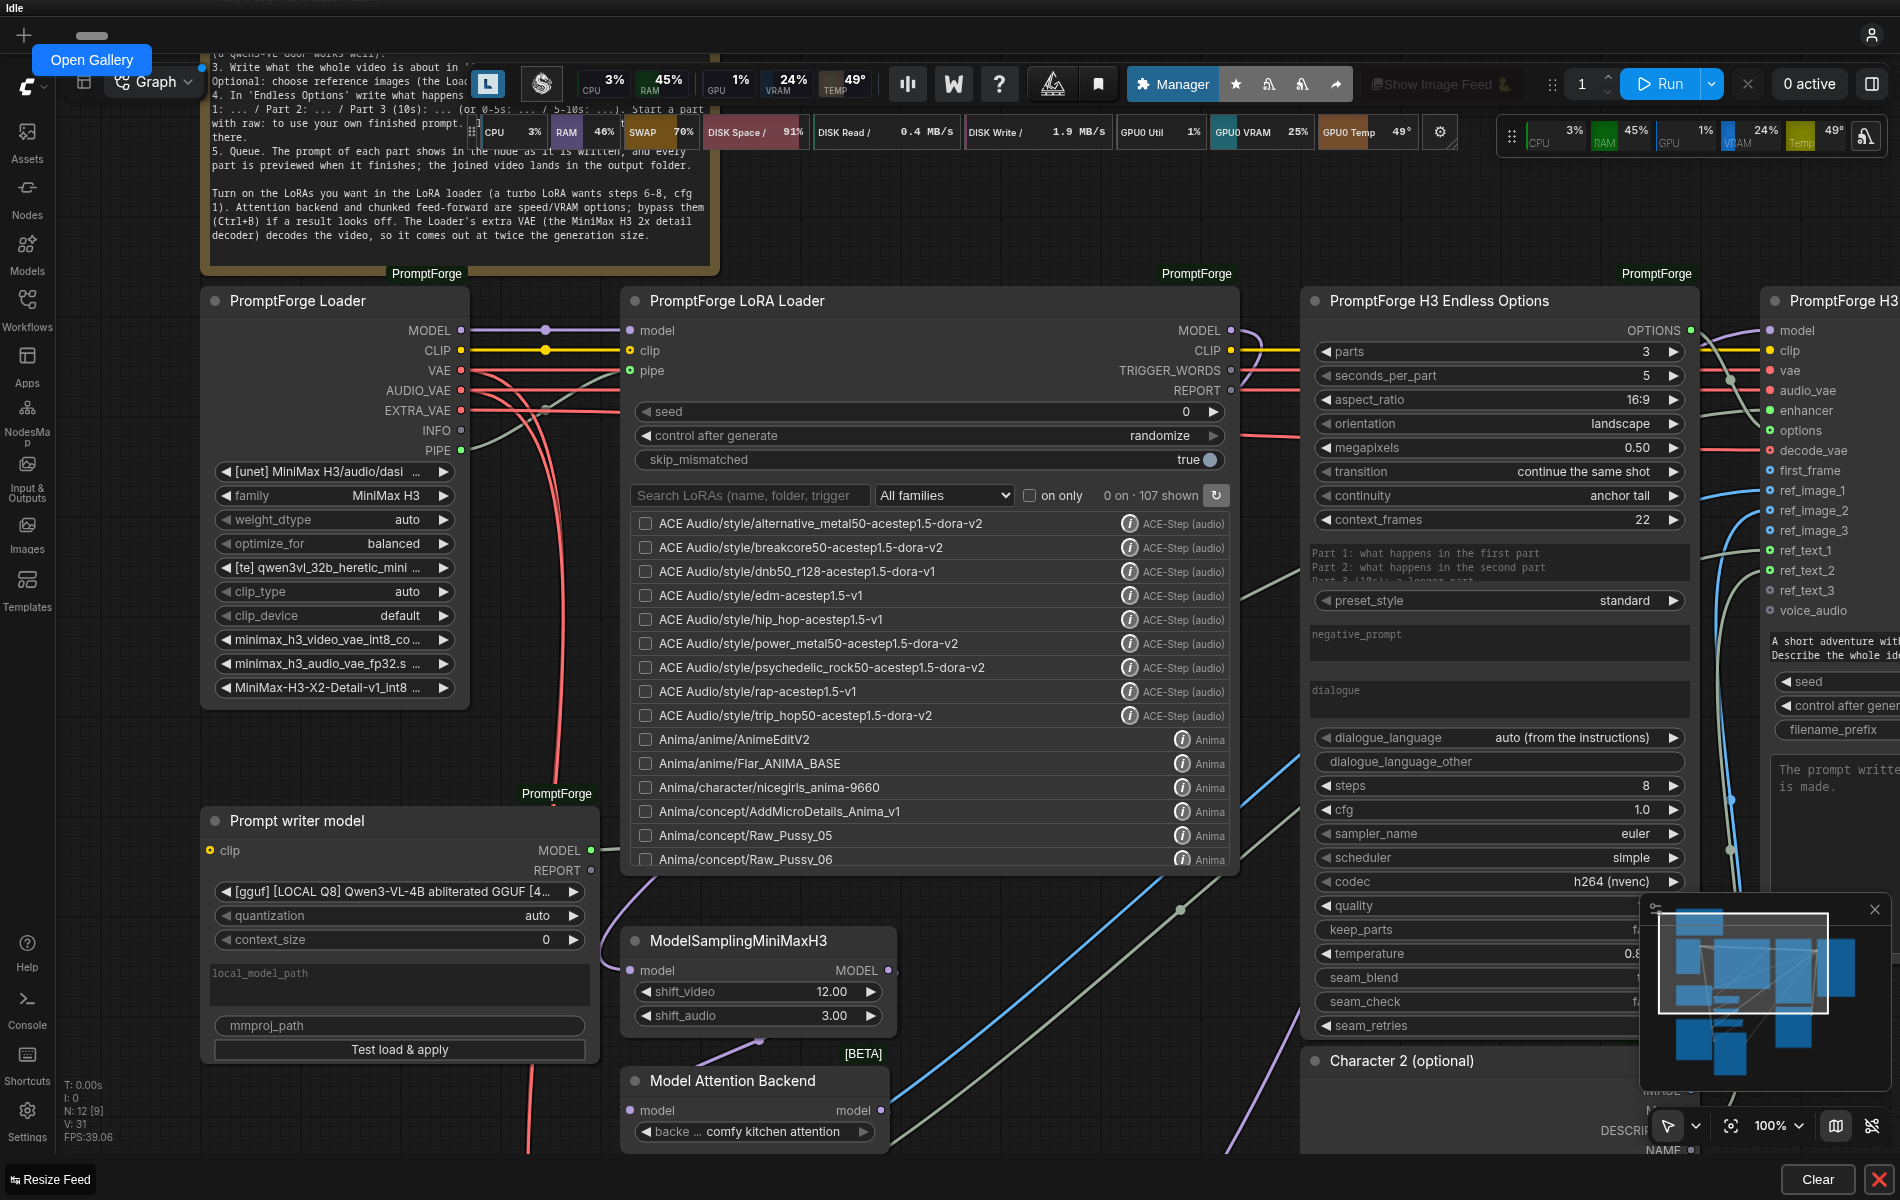
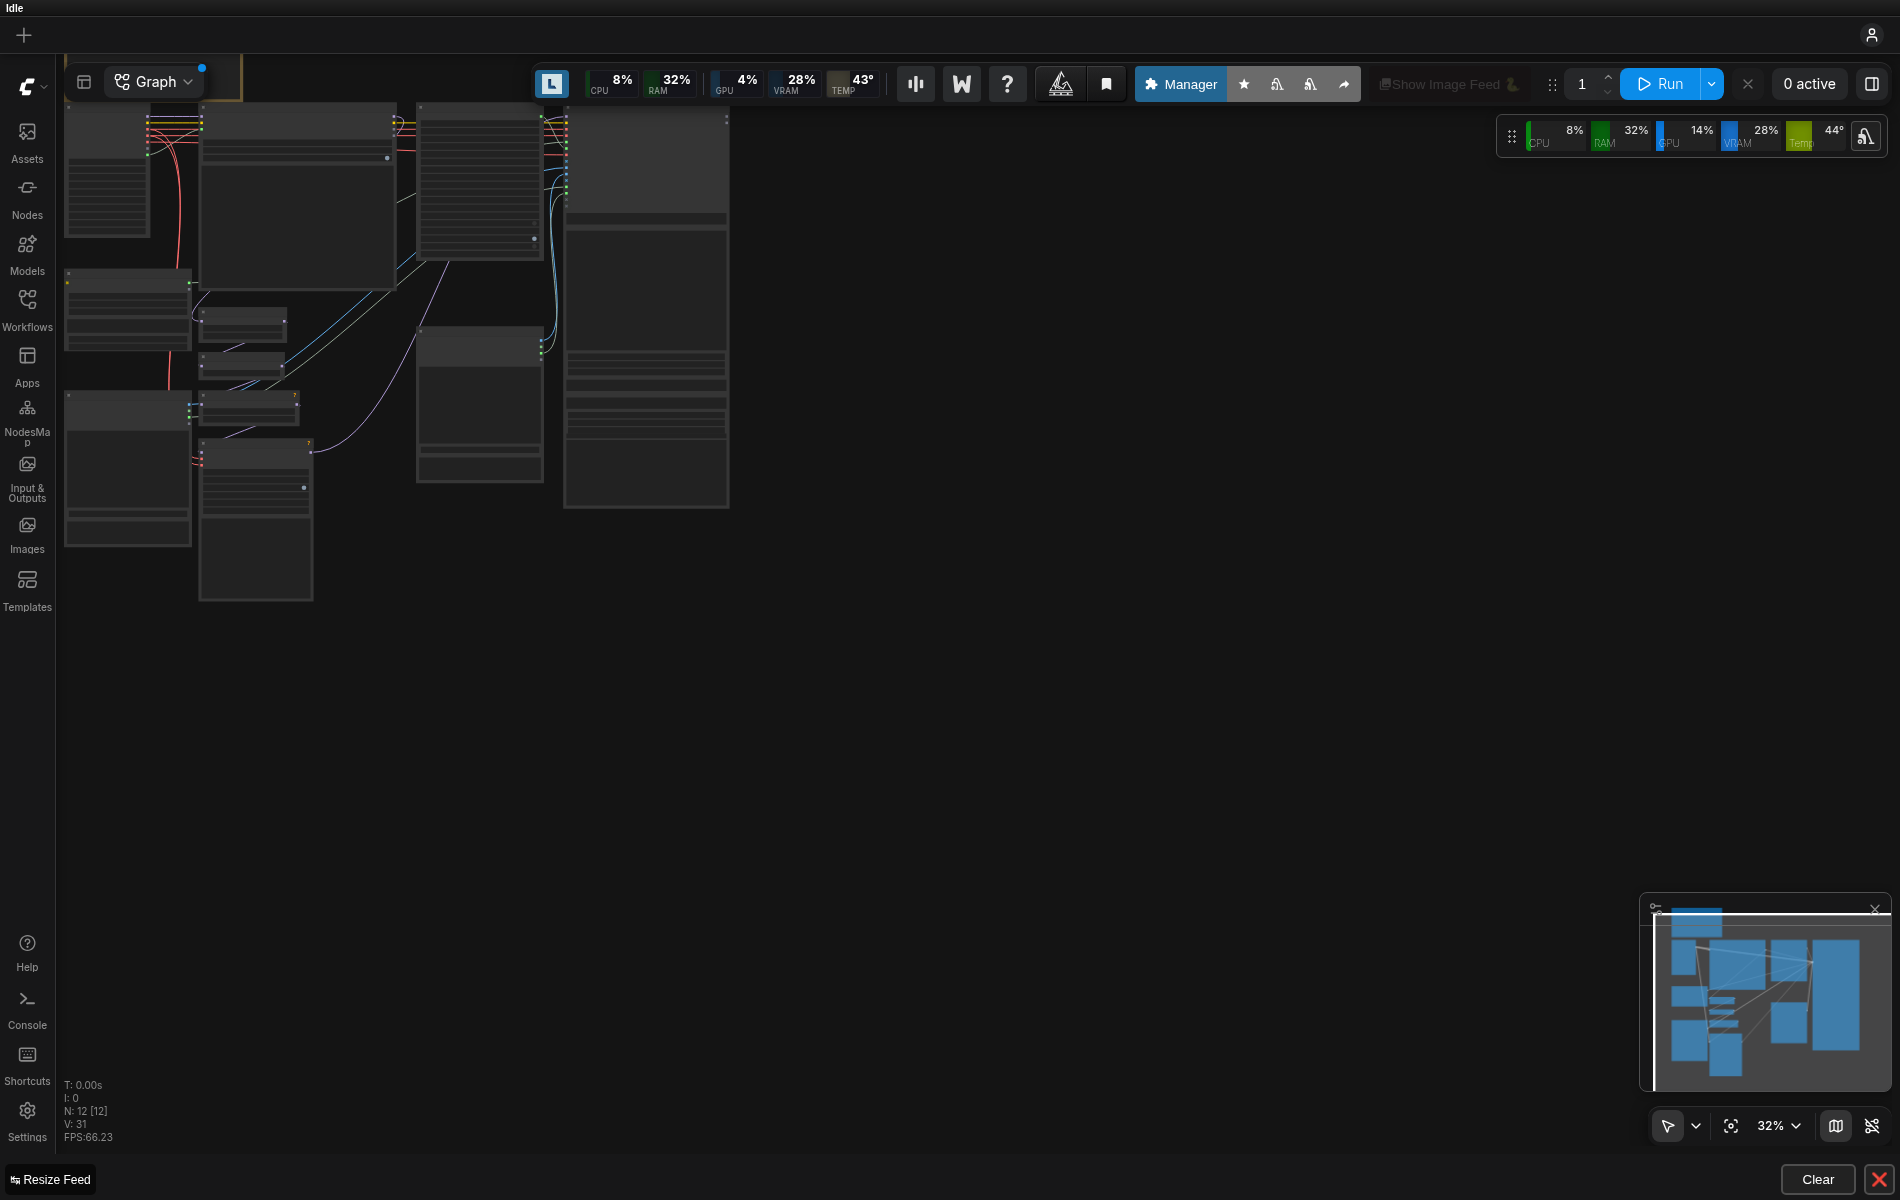
Endless Video: all prompting on the Endless node (general prompt plus a box per part), Options keeps only technical settings

diff --git a/web/promptforge_endless.js b/web/promptforge_endless.js
@@ -1,0 +1,128 @@
+import { app } from "../../scripts/app.js";
+
+const ENDLESS = "PROMPTFORGE_H3Endless";
+const OPTIONS = "PROMPTFORGE_H3Options";
+// prompting lives on the Endless node; an Options node from an older workflow keeps these values but does not show them
+const MOVED = ["parts", "part_ideas", "negative_prompt", "dialogue", "dialogue_language", "dialogue_language_other", "preset_style"];
+const BOX_HEIGHT = 96;
+const LABEL_HEIGHT = 18;
+
+function el(tag, style = {}, props = {}) {
+  const element = Object.assign(document.createElement(tag), props);
+  Object.assign(element.style, style);
+  return element;
+}
+
+function hide(widget) {
+  widget.hidden = true;
+  widget.computeSize = () => [0, -4];
+  widget.options = { ...(widget.options || {}), hidden: true };
+  if (widget.element) widget.element.style.display = "none";
+}
+
+app.registerExtension({
+  name: "PromptForge.H3Endless",
+  async beforeRegisterNodeDef(nodeType, nodeData) {
+    if (nodeData.name === OPTIONS) {
+      const onCreated = nodeType.prototype.onNodeCreated;
+      nodeType.prototype.onNodeCreated = function () {
+        onCreated?.apply(this, arguments);
+        for (const name of MOVED) {
+          const widget = this.widgets.find((entry) => entry.name === name);
+          if (widget) hide(widget);
+        }
+        this.setSize([this.size[0], this.computeSize()[1]]);
+      };
+      return;
+    }
+    if (nodeData.name !== ENDLESS) return;
+
+    const onCreated = nodeType.prototype.onNodeCreated;
+    nodeType.prototype.onNodeCreated = function () {
+      onCreated?.apply(this, arguments);
+      const node = this;
+      const find = (name) => node.widgets.find((widget) => widget.name === name);
+      const general = find("instructions");
+      const countWidget = find("parts");
+      const store = find("part_prompts");
+      hide(countWidget);
+      hide(store);
+      general.label = "general prompt";
+
+      let texts = [];
+      const frame = el("div", { position: "relative", width: "100%", height: "100%", minWidth: "0", overflow: "hidden", contain: "layout paint" });
+      const root = el("div", { position: "absolute", inset: "0", display: "flex", flexDirection: "column", gap: "4px", boxSizing: "border-box", overflowY: "auto", fontSize: "12px", color: "var(--input-text, #ddd)" });
+      frame.append(root);
+      frame.addEventListener("pointerdown", (event) => event.stopPropagation());
+      root.addEventListener("wheel", (event) => event.stopPropagation());
+
+      const header = el("div", { display: "flex", alignItems: "center", gap: "6px", flex: "0 0 auto" });
+      const minus = el("button", { cursor: "pointer", width: "24px" }, { textContent: "−" });
+      const plus = el("button", { cursor: "pointer", width: "24px" }, { textContent: "+" });
+      const count = el("input", { width: "52px", textAlign: "center", background: "var(--comfy-input-bg, #333)", color: "var(--input-text, #ddd)", border: "1px solid var(--border-color, #555)", borderRadius: "3px" }, { type: "number", min: 1, max: 200, step: 1 });
+      header.append("Parts", minus, count, plus, el("span", { opacity: ".6", marginLeft: "6px" }, { textContent: "What happens in each part. Start a box with (10s) for a longer part, or raw: to use your own finished prompt." }));
+      const list = el("div", { display: "flex", flexDirection: "column", gap: "4px" });
+      root.append(header, list);
+
+      const total = () => Math.max(1, Number(countWidget.value) || texts.length || 3);
+      const save = () => {
+        texts.length = total();
+        store.value = JSON.stringify(Array.from(texts, (text) => text || ""));
+      };
+      const fit = () => {
+        node.setSize([node.size[0], node.computeSize()[1]]);
+        node.setDirtyCanvas(true, true);
+      };
+
+      function render() {
+        const wanted = total();
+        count.value = wanted;
+        while (texts.length < wanted) texts.push("");
+        list.replaceChildren(...Array.from({ length: wanted }, (_, index) => {
+          const block = el("div", { display: "flex", flexDirection: "column", gap: "2px" });
+          const box = el("textarea", { width: "100%", height: BOX_HEIGHT + "px", minHeight: "48px", resize: "vertical", boxSizing: "border-box", padding: "4px 6px", fontSize: "12px", borderRadius: "4px", border: "1px solid var(--border-color, #555)", background: "var(--comfy-input-bg, #333)", color: "var(--input-text, #ddd)" },
+            { value: texts[index] || "", placeholder: `Part ${index + 1}: what happens in this part` });
+          box.addEventListener("input", () => { texts[index] = box.value; save(); });
+          box.addEventListener("wheel", (event) => event.stopPropagation());
+          block.append(el("div", { opacity: ".7" }, { textContent: `Part ${index + 1}` }), box);
+          return block;
+        }));
+      }
+
+      const setCount = (value) => {
+        countWidget.value = Math.min(200, Math.max(1, Math.round(value)));
+        render();
+        save();
+        fit();
+      };
+      minus.addEventListener("click", () => setCount(total() - 1));
+      plus.addEventListener("click", () => setCount(total() + 1));
+      count.addEventListener("change", () => setCount(Number(count.value) || 1));
+
+      const widget = node.addDOMWidget("part_boxes", "promptforge_part_boxes", frame, { serialize: false, getMinHeight: () => 34 + total() * (BOX_HEIGHT + LABEL_HEIGHT + 4) });
+      Object.defineProperty(widget, "width", { get: () => node.size[0], set: () => {}, configurable: true });
+      // the part boxes go right under the general prompt
+      node.widgets.splice(node.widgets.indexOf(widget), 1);
+      node.widgets.splice(node.widgets.indexOf(general) + 1, 0, widget);
+
+      const restore = () => {
+        try { texts = JSON.parse(store.value || "[]"); } catch { texts = []; }
+        if (!Array.isArray(texts)) texts = [];
+        if (!Number(countWidget.value)) countWidget.value = Math.max(texts.length, 3);
+        render();
+        fit();
+      };
+      node.promptforgeRestoreParts = restore;
+      if (!Number(countWidget.value)) countWidget.value = 3;
+      render();
+      node.setSize([Math.max(node.size[0], 520), Math.max(node.size[1], node.computeSize()[1])]);
+    };
+
+    const onConfigure = nodeType.prototype.onConfigure;
+    nodeType.prototype.onConfigure = function () {
+      const result = onConfigure?.apply(this, arguments);
+      this.promptforgeRestoreParts?.();
+      return result;
+    };
+  },
+});

diff --git a/web/promptforge_video.js b/web/promptforge_video.js
@@ -49,7 +49,7 @@ app.registerExtension({
         const holder = document.createElement("div");
         Object.assign(holder.style, { width: "100%", height: "100%" });
         holder.append(box);
-        const prompts = node.addDOMWidget("part_prompts", "promptforge_part_prompts", holder, { serialize: false, getMinHeight: () => 220 });
+        const prompts = node.addDOMWidget("written_prompts", "promptforge_written_prompts", holder, { serialize: false, getMinHeight: () => 220 });
         Object.defineProperty(prompts, "width", { get: () => node.size[0], set: () => {}, configurable: true });
         node.promptforgeShowPrompt = ({ index, text }) => {
           box.value = (index === 0 ? "" : box.value) + `=== Part ${index + 1} ===\n${text}\n\n`;

diff --git a/h3_endless.py b/h3_endless.py
@@ -16,6 +16,7 @@ Parts are encoded as they finish and joined at the end with one audio track, so 
 """
 import gc
 import importlib
+import json
 import os
 import re
 import shutil
@@ -105,6 +106,20 @@ def parse_plan(text, leading_is_part):
     if leading is not None and not marked and any(piece.strip() for piece in leading["text"]):
         parts.insert(0, leading)
     return "\n".join(brief).strip(), [{"text": " ".join(piece.strip() for piece in part["text"] if piece.strip()), "seconds": part["seconds"]} for part in parts]
+
+
+def part_boxes(text):
+    """The parts written in the node's part boxes (a JSON list of strings). A box may start with (10s) to give that part its own length."""
+    try:
+        values = json.loads(text) if text and text.strip() else []
+    except ValueError:
+        return []
+    plan = []
+    for value in values if isinstance(values, list) else []:
+        value = str(value).strip()
+        match = re.match(r"\(\s*(\d+(?:\.\d+)?)\s*s(?:ec(?:onds?)?)?\s*\)\s*", value, re.I)
+        plan.append({"text": value[match.end():].strip() if match else value, "seconds": float(match.group(1)) if match else None})
+    return plan
 
 
 def part_text(index, total, brief, reference_lines, plan, seconds):
@@ -229,7 +244,7 @@ class PROMPTFORGE_H3Options:
     RETURN_NAMES = ("OPTIONS",)
     FUNCTION = "build"
     CATEGORY = "🔮 PromptForge"
-    DESCRIPTION = "Settings for the PromptForge H3 Endless Video node: parts, length, size, how parts continue, an idea per part, dialogue and sampling."
+    DESCRIPTION = "Technical settings for the PromptForge H3 Endless Video node: part length, size, how parts continue, sampling and saving. The prompts are written on the Endless node."
 
     def build(self, parts, seconds_per_part, aspect_ratio, orientation, megapixels, transition, continuity, context_frames, part_ideas, **optional):
         options = dict(DEFAULT_OPTIONS)
@@ -248,7 +263,7 @@ class PROMPTFORGE_H3Endless:
                 "vae": ("VAE", {"tooltip": "The MiniMax H3 video VAE."}),
                 "audio_vae": ("VAE", {"tooltip": "The MiniMax H3 audio VAE."}),
                 "enhancer": ("PROMPTFORGE_MODEL", {"tooltip": "From a PromptForge Model node: the language model that writes every part's prompt."}),
-                "instructions": ("STRING", {"default": "", "multiline": True, "tooltip": "What the whole video is about. For reference images, say who or what each one is."}),
+                "instructions": ("STRING", {"default": "", "multiline": True, "placeholder": "General prompt: what the whole video is about, who is in it, the style. What happens in each part goes in the part boxes below.", "tooltip": "The general prompt: what the whole video is about. For reference images, say who or what each one is. It is context for every part; what each part shows is written in its own box."}),
                 "seed": ("INT", {"default": 0, "min": 0, "max": 2 ** 32 - 1, "tooltip": "Part n uses seed + n for the prompt and for the sampler."}),
                 "filename_prefix": ("STRING", {"default": "PromptForge/endless"}),
             },
@@ -263,6 +278,13 @@ class PROMPTFORGE_H3Endless:
                 "ref_text_2": ("STRING", {"forceInput": True}),
                 "ref_text_3": ("STRING", {"forceInput": True}),
                 "voice_audio": ("AUDIO", {"tooltip": "Optional voice reference, used in every part (<Audio 1>)."}),
+                "parts": ("INT", {"default": 0, "min": 0, "max": 200, "tooltip": "Number of parts. Set it with the part boxes on the node."}),
+                "part_prompts": ("STRING", {"default": "", "multiline": True, "tooltip": "What each part shows (a JSON list, kept by the part boxes on the node)."}),
+                "negative_prompt": ("STRING", {"default": "", "multiline": True, "tooltip": "What the video must not contain."}),
+                "dialogue": ("STRING", {"default": "", "multiline": True, "tooltip": "What the dialogue should be about and how it sounds. Written fresh for every part, sized to its length."}),
+                "dialogue_language": ([DIALOGUE_AUTO, "Arabic", "Chinese", "English", "French", "German", "Italian", "Japanese", "Korean", "Portuguese", "Russian", "Spanish", "other (type below)"], {"default": DIALOGUE_AUTO}),
+                "dialogue_language_other": ("STRING", {"default": ""}),
+                "preset_style": (list(PRESET_STYLES), {"default": "standard", "tooltip": "Which family of MiniMax H3 prompt presets the Enhancer uses."}),
             },
             "hidden": {"unique_id": "UNIQUE_ID"},
         }
@@ -275,8 +297,18 @@ class PROMPTFORGE_H3Endless:
     DESCRIPTION = "Makes a long MiniMax H3 video part by part: writes each part's prompt, continues from the previous ending, previews every part and joins them into one video."
 
     def generate(self, model, clip, vae, audio_vae, enhancer, instructions, seed, filename_prefix, options=None, decode_vae=None, first_frame=None,
-                 ref_image_1=None, ref_image_2=None, ref_image_3=None, ref_text_1="", ref_text_2="", ref_text_3="", voice_audio=None, unique_id=None):
+                 ref_image_1=None, ref_image_2=None, ref_image_3=None, ref_text_1="", ref_text_2="", ref_text_3="", voice_audio=None, parts=0, part_prompts="", negative_prompt="", dialogue="",
+                 dialogue_language=DIALOGUE_AUTO, dialogue_language_other="", preset_style="standard", unique_id=None):
         opts = {**DEFAULT_OPTIONS, **(options or {})}
+        # the prompting lives on this node; an older Options node's prompt fields are only the fallback
+        if negative_prompt.strip():
+            opts["negative_prompt"] = negative_prompt
+        if dialogue.strip():
+            opts["dialogue"] = dialogue
+        if dialogue_language != DIALOGUE_AUTO:
+            opts["dialogue_language"], opts["dialogue_language_other"] = dialogue_language, dialogue_language_other
+        if preset_style != "standard":
+            opts["preset_style"] = preset_style
         default_seconds = int(opts["seconds"])
         mode = "none" if opts["transition"] == TRANSITIONS[2] else opts["continuity"]
         context = int(opts["context_frames"])
@@ -284,13 +316,20 @@ class PROMPTFORGE_H3Endless:
             context = max(5, context)
         width, height = empty_latent.resolve_size("aspect + megapixels", 0, 0, "", opts["aspect_ratio"], opts["megapixels"], opts["orientation"], 32)
 
-        brief, plan = parse_plan(instructions, False)
-        listed = parse_plan(opts["part_ideas"], True)[1]
-        plan = [part for part in (listed or plan)]
-        brief = brief if plan and not listed else instructions.strip()
-        total = max(int(opts["parts"]), len(plan))
-        if len(plan) > int(opts["parts"]):
-            print(f"[PromptForge] endless video: {len(plan)} parts were described, so {len(plan)} parts will be made.")
+        entered = part_boxes(part_prompts)
+        if any(part["text"] for part in entered):
+            brief, plan = instructions.strip(), entered
+            total = int(parts) if parts > 0 else len(entered)
+            plan = plan[:total]
+        else:
+            # older workflows: the parts were written as markers in the instructions or in the Options node
+            brief, plan = parse_plan(instructions, False)
+            listed = parse_plan(opts["part_ideas"], True)[1]
+            plan = [part for part in (listed or plan)]
+            brief = brief if plan and not listed else instructions.strip()
+            total = max(int(parts) if parts > 0 else int(opts["parts"]), len(plan))
+        if len(plan) > total:
+            total = len(plan)
         plan += [{"text": "", "seconds": None}] * (total - len(plan))
         lengths = [float(part["seconds"] or default_seconds) for part in plan]
 

diff --git a/README.md b/README.md
@@ -113,7 +113,9 @@ The Choose image picker, and an **Images** tab in the left sidebar, share one li
 
 ### PromptForge H3 Endless Video (`PROMPTFORGE_H3Endless` + `PROMPTFORGE_H3Options`)
 Makes a long MiniMax H3 video part by part, with a ready workflow in `workflows/PromptForge_H3_Endless.json` (Loader -> LoRA loader -> shift -> latent preview -> Endless node, a prompt-writer model, two Load Image character slots and the Options node). Pick your files in the Loader and the prompt-writer model, write the instructions, queue.
-- **Parts:** the Options node sets the number of parts, seconds per part, aspect ratio / orientation / megapixels. What each part shows goes in its `part_ideas` box, one line per part: `Part 1: ...`, `Part 2: ...`, `Part 3 (10s): ...` (a length for that part only), or `0-5s: ...` / `5-15s: ...`, or parts separated by a line with only `---`. The same markers work inside the Endless node's `instructions` (the text before the first marker is the whole-video brief). A part starting with `raw:` skips the Enhancer and uses your own prompt. Each part's prompt is written from its own idea only, with the other parts listed as things to keep out; parts without an idea continue the story.
+- **One place for prompting:** the Endless node holds all of it. The *general prompt* says what the whole video is about; under it, a box per part says what happens in that part. Press + / − to change the number of parts and the boxes appear. Start a box with `(10s)` to give that part its own length, or `raw:` to skip the prompt writer and use your own finished prompt. Dialogue (text, language), the negative prompt and the prompt style (standard / NSFW) are on the same node.
+- **Options node:** only the technical settings: seconds per part, aspect ratio / orientation / megapixels, how parts continue, sampling, saving. (An Options node from an older workflow keeps its old prompt fields hidden and uses them only when the Endless node's part boxes are empty.)
+- **How each part is written:** each part's prompt is written from its own box only, with the general prompt as context and the other parts listed as things to keep out; a part with an empty box continues the story.
 - **Prompt preview:** the prompt written for each part appears in a box on the node as soon as it exists, before the part is sampled.
 - **Prompts:** for every part the Enhancer gets the whole-video brief, the reference images and their descriptions (wire a Load Image `DESCRIPTION` into `ref_text_n`), the story so far and the frames it must continue. It writes a fresh H3 prompt, dialogue included when asked for.
 - **Continuation (`continuity`):** *anchor tail* anchors the last `context_frames` frames and the last audio of the previous part at the start of the new part with H3's own guide mechanism, so it continues frame-exactly; the anchored frames are cut when the parts are joined. *reference video* hands the previous ending to H3 as a reference video (its native continuation). *none* makes independent parts from the references only. `transition` decides whether the story stays in one shot, may cut, or cuts every part.
